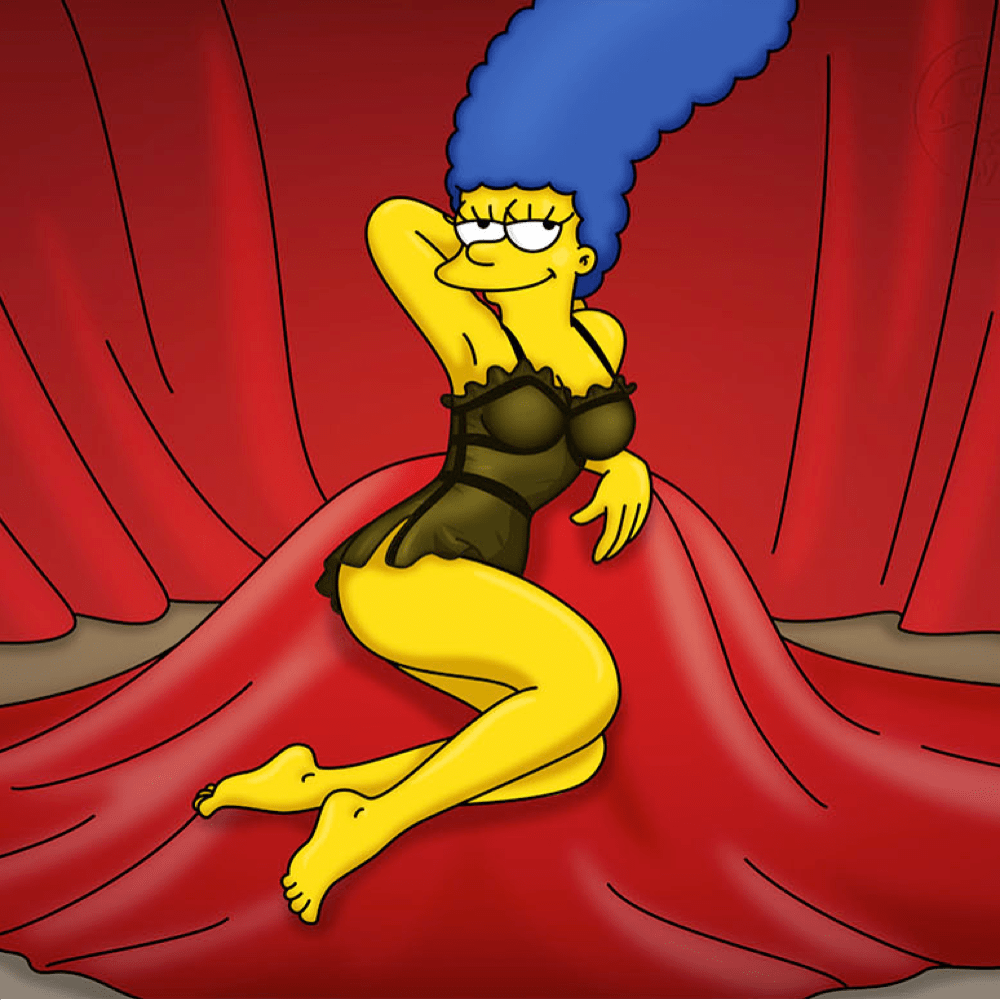
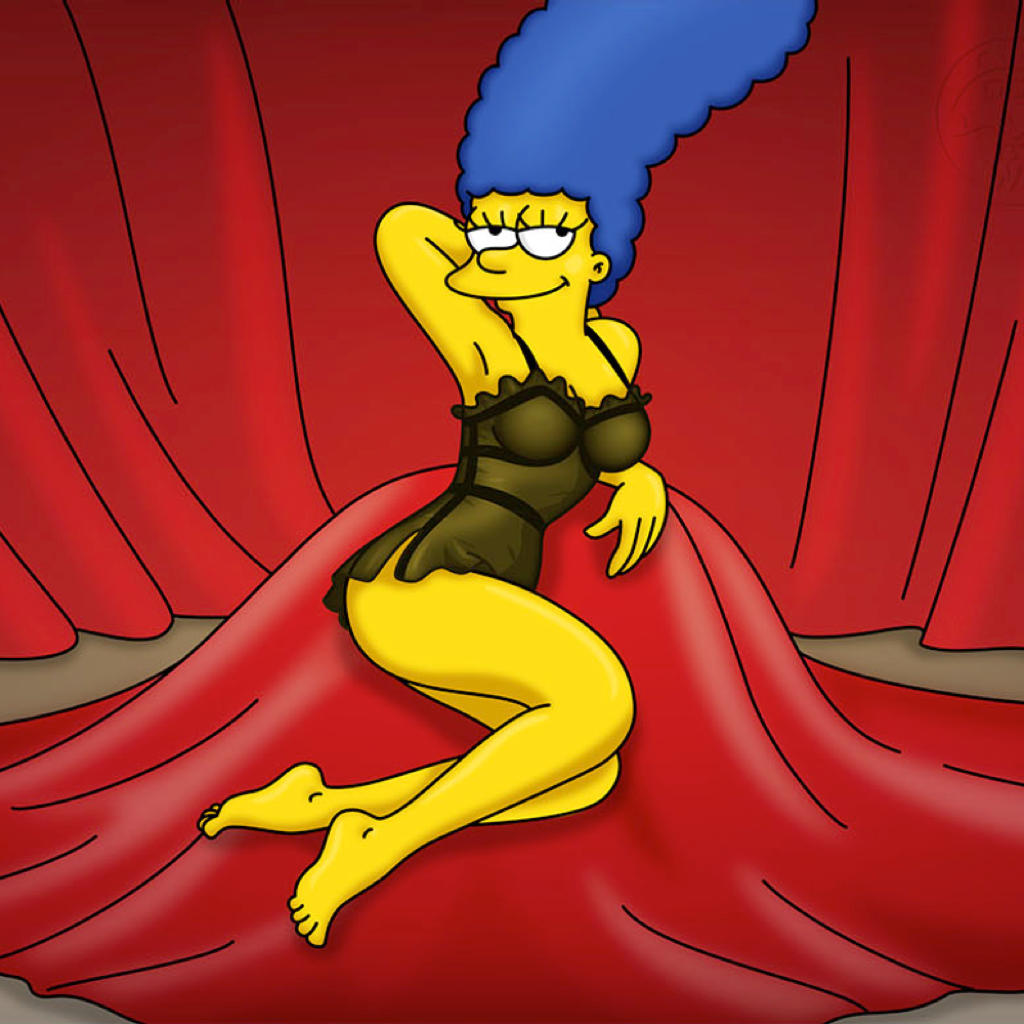
Add scaling and adjust Board, Pinup and related scenes for ui placement

diff --git a/src/objects/Snake.js b/src/objects/Snake.js
@@ -7,43 +7,96 @@ import {
 
 export class Snake {
   constructor(scene, x, y) {
-    this.position = new Phaser.Geom.Point(x * GRID_SIZE + GRID_SIZE / 2, y * GRID_SIZE + GRID_SIZE / 2);
+    this.scene = scene;
+
+    const actualScale = Math.min(
+      this.scene.sys.game.config.width / 3840,
+      this.scene.sys.game.config.height / 2160
+    );
+
+    const scale = actualScale > 0.5 ? 1 : 0.5;
+
+    this.scaledGridSize = GRID_SIZE * scale;
+
+    this.position = new Phaser.Geom.Point(
+      x * this.scaledGridSize + this.scaledGridSize / 2,
+      y * this.scaledGridSize + this.scaledGridSize / 2
+    );
     this.tailPosition = new Phaser.Geom.Point(0, 0);
-    this.direction = new Phaser.Geom.Point(-GRID_SIZE, 0);
+    this.direction = new Phaser.Geom.Point(-this.scaledGridSize, 0);
     this.updated = true;
     this.moveTime = 0;
     this.moveDelay = 60;
     this.alive = true;
     this.length = SNAKE_LENGTH;
 
-
-    this.body = scene.add.group();
-    this.head = this.body.create(this.position.x, this.position.y, 'snake-head');
+    this.body = this.scene.add.group();
+    this.head = this.body
+      .create(this.position.x, this.position.y, 'snake-head')
+      .setScale(scale)
+      // .setDisplayOrigin(17);
 
     for (let i = 1; i < SNAKE_LENGTH; i += 1) {
-      this.body.create(this.position.x + (i * GRID_SIZE), this.position.y * GRID_SIZE, 'snake-body');
+      this.body
+        .create(
+          this.position.x + i * this.scaledGridSize,
+          this.position.y * this.scaledGridSize,
+          'snake-body'
+        )
+        .setScale(scale);
     }
 
-    this.cursors = scene.input.keyboard.createCursorKeys();
+    this.cursors = this.scene.input.keyboard.createCursorKeys();
+    this.keys = {};
+    this.keys.h = this.scene.input.keyboard.addKey(Phaser.Input.Keyboard.KeyCodes.H);
+    this.keys.j = this.scene.input.keyboard.addKey(Phaser.Input.Keyboard.KeyCodes.J);
+    this.keys.k = this.scene.input.keyboard.addKey(Phaser.Input.Keyboard.KeyCodes.K);
+    this.keys.l = this.scene.input.keyboard.addKey(Phaser.Input.Keyboard.KeyCodes.L);
+    this.keys.w = this.scene.input.keyboard.addKey(Phaser.Input.Keyboard.KeyCodes.W);
+    this.keys.a = this.scene.input.keyboard.addKey(Phaser.Input.Keyboard.KeyCodes.A);
+    this.keys.s = this.scene.input.keyboard.addKey(Phaser.Input.Keyboard.KeyCodes.S);
+    this.keys.d = this.scene.input.keyboard.addKey(Phaser.Input.Keyboard.KeyCodes.D);
   }
 
   move(time) {
-    this.position.setTo(
-      Phaser.Math.Wrap(this.position.x + this.direction.x, 0, GRID_COLUMNS * GRID_SIZE),
-      Phaser.Math.Wrap(this.position.y + this.direction.y, 0, GRID_ROWS * GRID_SIZE)
+    const actualScale = Math.min(
+      this.scene.sys.game.config.width / 3840,
+      this.scene.sys.game.config.height / 2160
     );
 
+    const scale = actualScale > 0.5 ? 1 : 0.5;
 
-    Phaser.Actions.ShiftPosition(this.body.getChildren(), this.position.x, this.position.y, 1, this.tailPosition);
+    this.position.setTo(
+      Phaser.Math.Wrap(
+        this.position.x + this.direction.x,
+        0,
+        GRID_COLUMNS * this.scaledGridSize
+      ),
+      Phaser.Math.Wrap(
+        this.position.y + this.direction.y,
+        0,
+        GRID_ROWS * this.scaledGridSize
+      )
+    );
+
+    Phaser.Actions.ShiftPosition(
+      this.body.getChildren(),
+      this.position.x,
+      this.position.y,
+      1,
+      this.tailPosition
+    );
     this.rotateSprite();
 
     if (this.length > this.body.getLength()) {
-      this.body.create(this.tailPosition.x, this.tailPosition.y, 'snake-body');
+      this.body
+        .create(this.tailPosition.x, this.tailPosition.y, 'snake-body')
+        .setScale(scale);
     }
-
 
     if (this.hitSelf()) {
       this.alive = false;
+      this.scene.registry.set('GameOver', true);
       return false;
     }
 
@@ -52,34 +105,65 @@ export class Snake {
   }
 
   handleInput() {
-    const {left, right, up, down} = this.cursors;
+    const {
+      left, right, up, down,
+    } = this.cursors;
+
     if (this.updated) {
-      if (Phaser.Input.Keyboard.JustDown(up) && Math.abs(this.direction.x) === GRID_SIZE) {
-        this.direction.setTo(0, -GRID_SIZE);
+      if (
+        (
+          Phaser.Input.Keyboard.JustDown(up) ||
+          Phaser.Input.Keyboard.JustDown(this.keys.k) ||
+          Phaser.Input.Keyboard.JustDown(this.keys.w)
+        ) &&
+        Math.abs(this.direction.x) === this.scaledGridSize
+      ) {
+        this.direction.setTo(0, -this.scaledGridSize);
         this.updated = false;
-      } else if (Phaser.Input.Keyboard.JustDown(down) && Math.abs(this.direction.x) === GRID_SIZE) {
-        this.direction.setTo(0, GRID_SIZE);
+      } else if (
+        (
+          Phaser.Input.Keyboard.JustDown(down) ||
+          Phaser.Input.Keyboard.JustDown(this.keys.j) ||
+          Phaser.Input.Keyboard.JustDown(this.keys.s)
+        ) &&
+        Math.abs(this.direction.x) === this.scaledGridSize
+      ) {
+        this.direction.setTo(0, this.scaledGridSize);
         this.updated = false;
-      } else if (Phaser.Input.Keyboard.JustDown(left) && Math.abs(this.direction.y) === GRID_SIZE) {
-        this.direction.setTo(-GRID_SIZE, 0);
+      } else if (
+        (
+          Phaser.Input.Keyboard.JustDown(left) ||
+          Phaser.Input.Keyboard.JustDown(this.keys.h) ||
+          Phaser.Input.Keyboard.JustDown(this.keys.a)
+        ) &&
+        Math.abs(this.direction.y) === this.scaledGridSize
+      ) {
+        this.direction.setTo(-this.scaledGridSize, 0);
         this.updated = false;
-      } else if (Phaser.Input.Keyboard.JustDown(right) && Math.abs(this.direction.y) === GRID_SIZE) {
-        this.direction.setTo(GRID_SIZE, 0);
+      } else if (
+        (
+          Phaser.Input.Keyboard.JustDown(right) ||
+          Phaser.Input.Keyboard.JustDown(this.keys.l) ||
+          Phaser.Input.Keyboard.JustDown(this.keys.d)
+        ) &&
+        Math.abs(this.direction.y) === this.scaledGridSize
+      ) {
+        this.direction.setTo(this.scaledGridSize, 0);
         this.updated = false;
       }
     }
   }
 
   rotateSprite() {
-    if (this.direction.x === -GRID_SIZE) {
+    if (this.direction.x === -this.scaledGridSize) {
       this.head.setRotation(0);
       this.head.setFlipY(false);
-    } else if (this.direction.x === GRID_SIZE) {
+    } else if (this.direction.x === this.scaledGridSize) {
       this.head.setRotation(3.14159);
       this.head.setFlipY(true);
-    } else if (this.direction.y === GRID_SIZE) {
+    } else if (this.direction.y === this.scaledGridSize) {
       this.head.setRotation(-1.5708);
-    } else if (this.direction.y === -GRID_SIZE) {
+    } else if (this.direction.y === -this.scaledGridSize) {
       this.head.setRotation(1.5708);
     }
   }

diff --git a/src/scenes/Board.js b/src/scenes/Board.js
@@ -16,37 +16,39 @@ class Board extends Phaser.Scene {
     }
     this.registry.set('score', 0);
     this.registry.set('GameOver', false);
-    this.registry.set('LevelComplete', false);
+    // this.registry.set('LevelComplete', false);
 
-    this.cameras.main.setViewport(
-      ((window.innerWidth - 1000) / 3) * 2 + 500,
-      window.innerHeight / 2 - 250,
-      500,
-      500
-    );
+    const { width, height } = this.sys.game.config;
+    const actualScale = Math.min(width / 3840, height / 2160);
+    const scale = actualScale > 0.5 ? 1 : 0.5;
 
-    const board = this.add
-      .tileSprite(0, 0, 500, 500, 'board-pattern')
-      .setOrigin(0, 0);
+    this.cameras.main
+      .setViewport(
+        this.registry.values.ui.x + (this.registry.values.ui.width * 0.7365451389 * scale) - (1024 * scale / 2),
+        this.registry.values.ui.y + (this.registry.values.ui.height / 2 * scale) - (1024 * scale / 2),
+        1024 * scale,
+        1024 * scale
+      )
+      .setOrigin(0);
 
-    this.snake = new Snake(this, 10, 10);
+    this.board = this.add
+      .tileSprite(0, 0, 1024, 1024, 'board-pattern')
+      .setOrigin(0, 0)
+      .setScale(scale);
+
+
+    this.snake = new Snake(this, 16, 16);
     this.piece = new PinupPiece(this, this.getRandomEmptyPosition());
+    this.piece.setScale(scale);
+
+    this.events.on('resize', this.resize, this);
   }
 
   update(time) {
-    if (!this.snake.alive) {
-      this.registry.set('GameOver', true);
-      this.scene.start('GameOver');
-    } else if (this.registry.values.score >= 200) {
-      this.registry.set('LevelComplete', true);
-      this.registry.values.level += 1;
-      this.scene.start('LevelComplete');
-    } else {
-      if (this.snake.update(time)) {
-        this.checkCollision();
-      }
-      this.snake.handleInput();
+    if (this.snake.update(time)) {
+      this.checkCollision();
     }
+      this.snake.handleInput();
   }
 
   collided(a, b) {
@@ -62,10 +64,12 @@ class Board extends Phaser.Scene {
   }
 
   isCellEmpty(cell) {
+    const actualGridSize = GRID_SIZE * this.registry.values.scale;
     const adjustedCell = {
-      x: cell.x * GRID_SIZE + (GRID_SIZE / 2),
-      y: cell.y * GRID_SIZE + (GRID_SIZE / 2)
+      x: cell.x * actualGridSize + (actualGridSize / 2),
+      y: cell.y * actualGridSize + (actualGridSize / 2)
     }
+
     if (this.snake != undefined && this.snake.body.getChildren().some(segment => this.collided(segment, adjustedCell))) {
       return false;
     }
@@ -90,6 +94,16 @@ class Board extends Phaser.Scene {
     return this.getRandomEmptyPosition();
   }
 
-}
+  resize(
+    width = this.sys.game.config.width,
+    height = this.sys.game.config.height
+  ) {
+    console.log('resizing board');
+    // this.cameras.resize(width, height);
+    const scale = Math.min(width / 3840, height / 2160);
 
+    this.cameras.main.setSize(1024 * scale, 1024 * scale);
+    // this.board.setSize(1351 * scale, 1351 * scale);
+  }
+}
 export default Board;

diff --git a/src/scenes/Pinup.js b/src/scenes/Pinup.js
@@ -10,26 +10,40 @@ class Pinup extends Phaser.Scene {
   }
 
   create() {
+    //this.scene.moveBelow('Interface');
+
+    // replace with registy scale factor
+    const actualScale = Math.min(
+      this.sys.game.config.width / 3840,
+      this.sys.game.config.height / 2160
+    );
+
+    const scale = actualScale > 0.5 ? 1 : 0.5;
+
     this.cameras.main.setViewport(
-      (window.innerWidth - 1000) / 3,
-      window.innerHeight / 2 - 250,
-      500,
-      500
+      this.registry.values.ui.x + (this.registry.values.ui.width * 0.2638888889 * scale) - (1024 * scale / 2),
+      this.registry.values.ui.y + (this.registry.values.ui.height / 2 * scale) - (1024 * scale / 2),
+      // 875 * scale,
+      // 580 * scale,
+      1024 * scale,
+      1024 * scale
     );
 
     const placeholder = this.add
-      .image(250, 250, 'skb-placeholder')
-      .setScale(0.5);
+      .image(0, 0, 'skb-placeholder')
+      .setScale(scale)
+      .setOrigin(0);
 
     let frame = 0;
+    // if(this.collected) this.collected.clear()
     this.collected = this.add.group();
     this.pieces = this.add.group();
     for (let i = 0; i < 5; i++) {
       for (let j = 0; j < 4; j++) {
         this.pieces
-          .create(j * 125, i * 100, 'pinup', frame)
+          .create(j * ((1024 * scale) / 4) , i * ((1024 * scale) / 5), 'pinup', frame)
           .setOrigin(0, 0)
-          .setScale(0.5);
+          .setScale(scale);
         frame++;
       }
     }

diff --git a/src/objects/PinupPiece.js b/src/objects/PinupPiece.js
@@ -2,11 +2,13 @@ import { GRID_SIZE } from '../constants/settings.js';
 
 export class PinupPiece extends Phaser.GameObjects.Image {
   constructor(scene, position) {
-    super(scene, position.x * GRID_SIZE + (GRID_SIZE / 2), position.y * GRID_SIZE + (GRID_SIZE / 2), 'pinup-piece');
-    scene.children.add(this);
+    super(scene, position.x * GRID_SIZE * scene.registry.values.scale + (GRID_SIZE * scene.registry.values.scale / 2), position.y * GRID_SIZE * scene.registry.values.scale + (GRID_SIZE * scene.registry.values.scale / 2), 'pinup-piece');
+    this.scene = scene;
+    scene.children
+      .add(this)
   }
 
   reposition(position) {
-    this.setPosition(position.x * GRID_SIZE + (GRID_SIZE / 2), position.y * GRID_SIZE + (GRID_SIZE / 2));
+    this.setPosition(position.x * GRID_SIZE * this.scene.registry.values.scale + (GRID_SIZE * this.scene.registry.values.scale / 2), position.y * GRID_SIZE * this.scene.registry.values.scale + (GRID_SIZE * this.scene.registry.values.scale / 2));
   }
 }

diff --git a/src/scenes/Boot.js b/src/scenes/Boot.js
@@ -95,6 +95,8 @@ class Boot extends Phaser.Scene {
     this.cameras.main.setBackgroundColor(GREY_SUIT);
     const { width, height } = this.sys.game.config;
     const scale = Math.min(width / 3840, height / 2160);
+    this.registry.set('actualScale', Math.min(width / 3840, height / 2160));
+    this.registry.set('scale', this.registry.values.actualScale > 0.5 ? 1 : 0.5);
 
     const offsetX = width - (3840 * scale);
     const offsetY = height - (2160 * scale);

diff --git a/src/constants/settings.js b/src/constants/settings.js
@@ -1,4 +1,4 @@
-export const GRID_COLUMNS = 25;
-export const GRID_ROWS = 25;
-export const GRID_SIZE = 20;
+export const GRID_COLUMNS = 32;
+export const GRID_ROWS = 32;
+export const GRID_SIZE = 32;
 export const SNAKE_LENGTH = 3;
